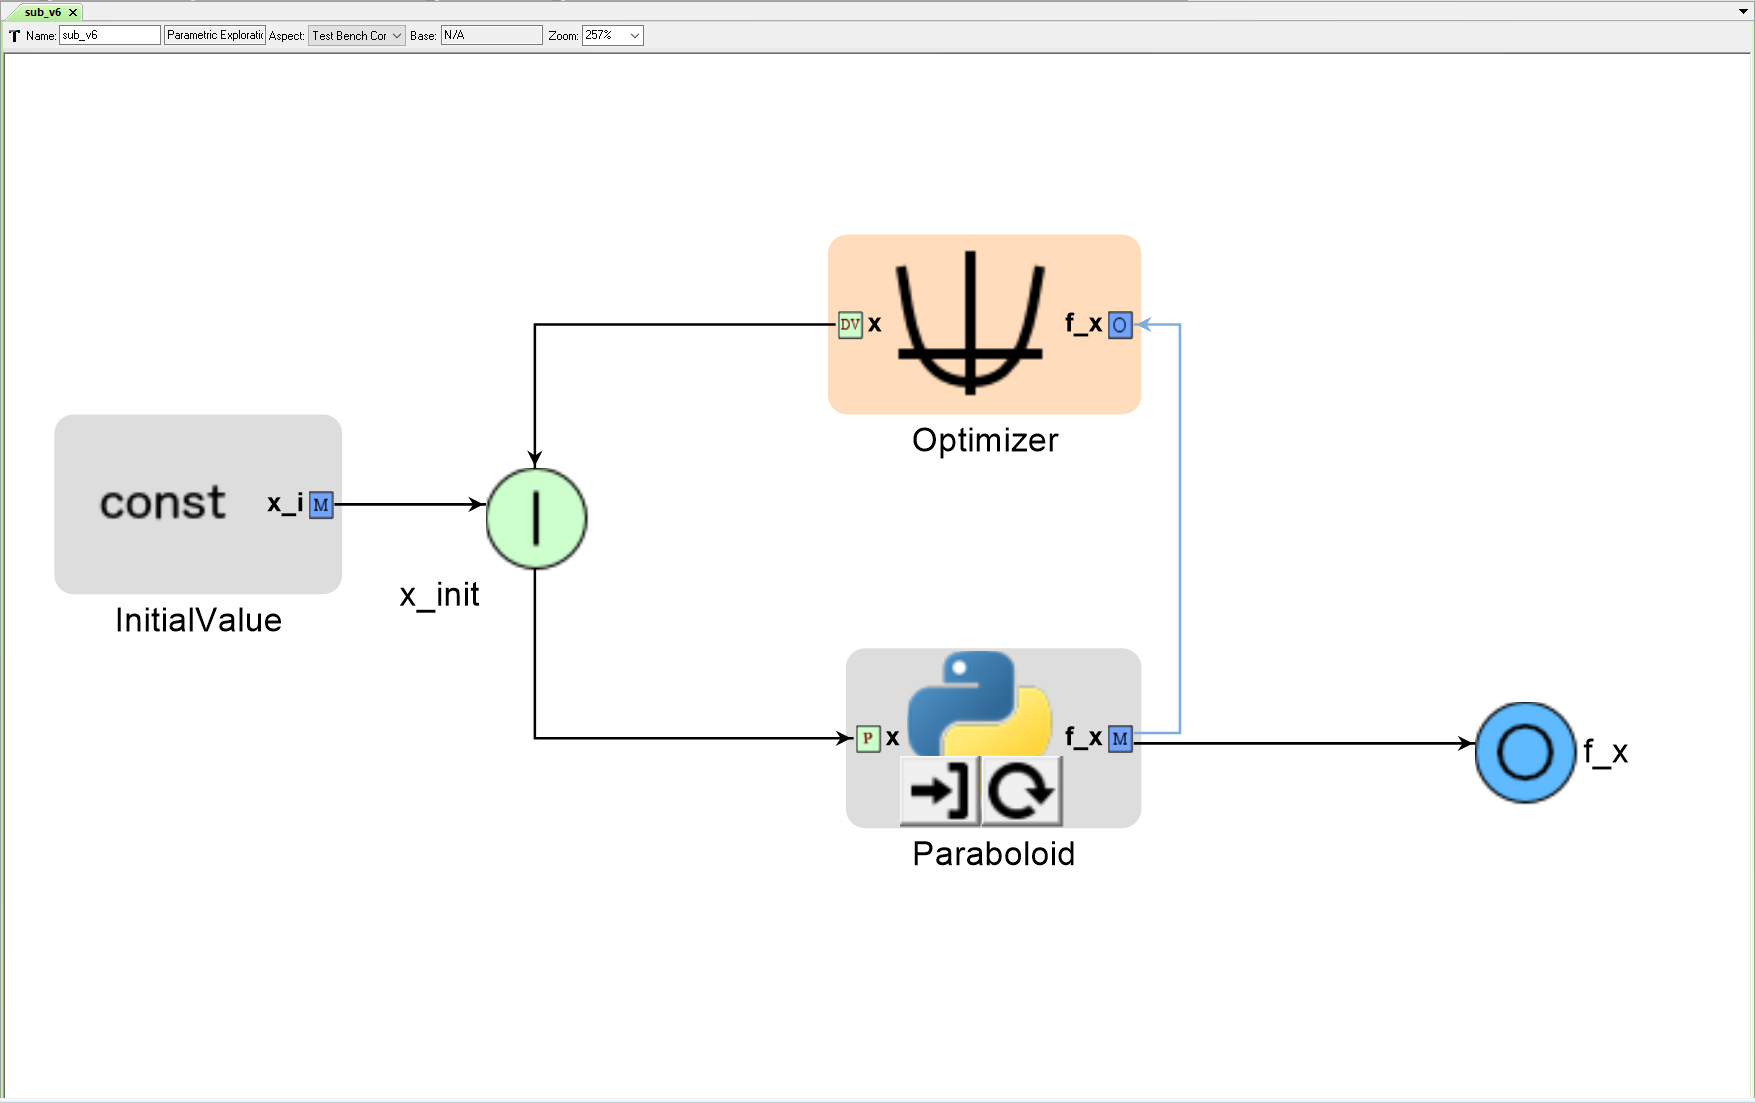
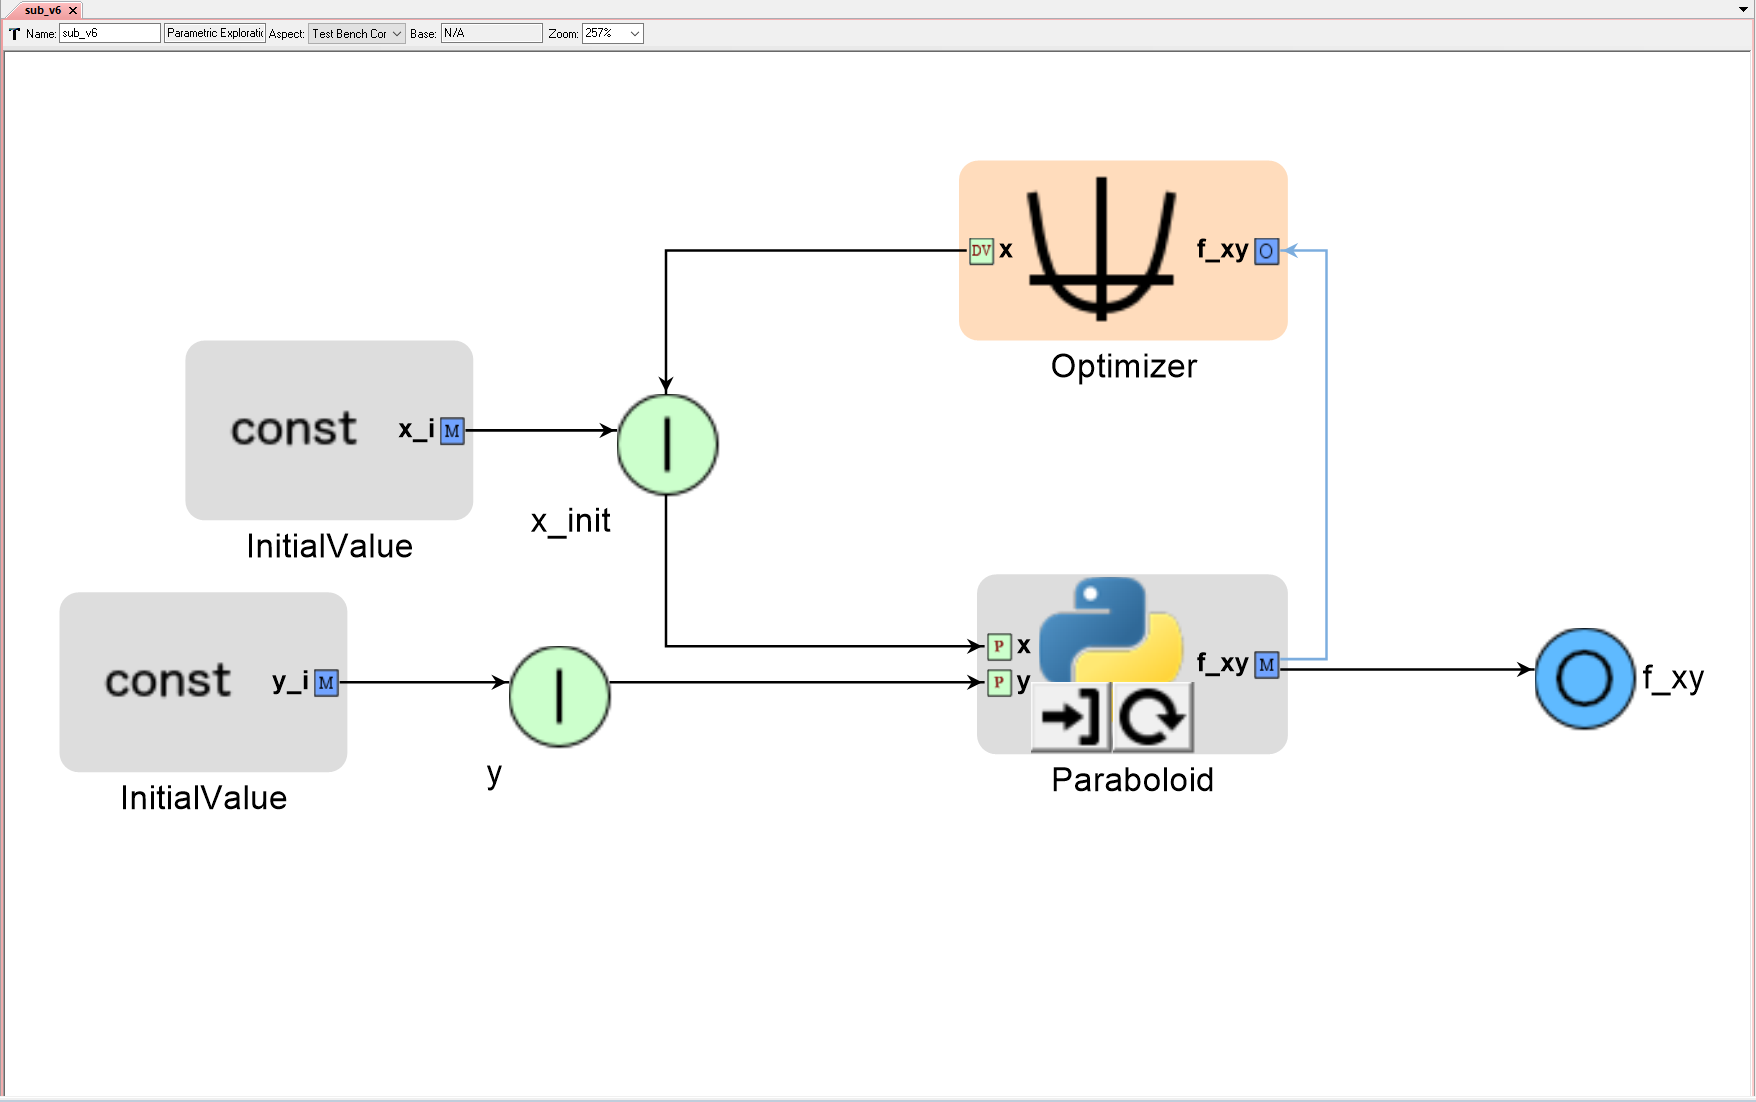
added another example

diff --git a/PETBuildupConstants/top_v3.py b/PETBuildupConstants/top_v3.py
@@ -1,0 +1,128 @@
+'''
+# Name: top_v3.py
+# Company: MetaMorph, Inc.
+# Author(s): Joseph Coombe
+# Email: jcoombe@metamorphsoftware.com
+# Create Date: 7/13/2017
+# Edit Date: 7/13/2017
+
+# Tutorial: Problem containing a Parameter Study and a SubProblem
+#           Adaption of OpenMDAO tutorial: http://openmdao.readthedocs.io/en/1.7.3/usr-guide/tutorials/paraboloid-tutorial.html
+
+# Inputs:
+
+# Outputs:
+'''
+
+from __future__ import print_function
+from openmdao.api import IndepVarComp, Component, Problem, Group
+from openmdao.api import ScipyOptimizer  # Optimizer driver
+from openmdao.api import SqliteRecorder  # Recorder
+from openmdao.api import SubProblem  # Allows for nested drivers - not currently supported in OpenMETA - Introduced in OpenMDAO v.1.7.2.
+from openmdao.api import FullFactorialDriver  # FullFactorialDriver driver
+import sqlitedict
+from pprint import pprint
+
+# PythonWrapper Components
+class Paraboloid(Component):
+    ''' Evaluates the equation f(x,y) = (x-3)^2 +xy +(y+4)^2 - 3 '''
+
+    def __init__(self):
+        super(Paraboloid, self).__init__()
+        
+        self.add_param('x', val=0.0)
+        self.add_param('y', val=0.0)
+        
+        self.add_output('f_xy', shape=1)
+        
+    def solve_nonlinear(self, params, unknowns, resids):
+        ''' f(x,y) = (x-3)^2 + xy + (y+4)^2 - 3 '''
+        
+        x = params['x']
+        y = params['y']
+        
+        unknowns['f_xy'] = (x-3.0)**2 + x*y + (y+4.0)**2 - 3.0
+
+        
+if __name__ == '__main__':
+
+    # Instantiate a Problem 'sub'
+    # Instantiate a Group and add it to sub
+    sub = Problem()
+    sub.root = Group()
+    
+    # Add the 'Paraboloid' Component to sub's root Group.
+    sub.root.add('Paraboloid', Paraboloid())
+    
+    # Add an IndepVarComp c1.y_const for 'Constants->y_const' to sub's root Group.
+    sub.root.add('c1', IndepVarComp('y_const', 10.0))  # normal Constants behavior
+    
+    # Initialize x_init as a IndepVarComp and add it to sub's root group as 'p1.x_init'
+    # p1.x_init is initialized to 2.0 because in OpenMETA, the metric 'x_i' (inside the Constants 'InitialValue') was connected to 'x_init'
+    sub.root.add('p1', IndepVarComp('x_init', 2.0))  
+    
+    # Connect components
+    sub.root.connect('p1.x_init', 'Paraboloid.x')
+    sub.root.connect('c1.y_const', 'Paraboloid.y')
+    
+    # Add driver
+    sub.driver = ScipyOptimizer()
+    
+    # Modify the optimization driver's settings
+    sub.driver.options['optimizer'] = 'COBYLA'      # Type of Optimizer. 'COBYLA' does not require derivatives
+    sub.driver.options['tol'] = 1.0e-4              # Tolerance for termination. Not sure exactly what it represents. Default: 1.0e-6
+    sub.driver.options['maxiter'] = 200             # Maximum iterations. Default: 200
+    #sub.driver.opt_settings['rhobeg'] = 1.0        # COBYLA-specific setting. Initial step size. Default: 1.0
+    #sub.driver.opt_settings['catol'] = 0.1         # COBYLA-specific setting. Absolute tolerance for constraint violations. Default: 0.1
+    
+    # Add design variables, objective, and constraints to the optimization driver
+    sub.driver.add_desvar('p1.x_init', lower=-50, upper=50)
+    sub.driver.add_objective('Paraboloid.f_xy')
+    
+    
+    # Instantiate a Problem 'top'
+    # Instantiate a Group and add it to top
+    top = Problem()
+    top.root = Group()
+    
+    # Add sub to top as a SubProblem called 'Sub' 
+    # Include sub's Problem Inputs and Problem Outputs in 'params' and 'unknowns' fields of SubProblem 
+    top.root.add('Sub', SubProblem(sub, params=['p1.x_init'],
+                                        unknowns=['Paraboloid.f_xy']))  # This is where you designate what to expose to the outside world)
+
+    # Initialize x and y as IndepVarComps and add them to top's root group
+    top.root.add('p1', IndepVarComp('x_init', 0.0))
+    
+    # Add an IndepVarComp c1.x_init for 'Constants->x_init' to top's root Group.
+    top.root.add('c1', IndepVarComp('x_init', 30.0))  # normal Constants behavior
+    
+    # Connections
+    top.root.connect('c1.x_init', 'Sub.p1.x_init')
+    
+    # Add driver
+    top.driver = FullFactorialDriver(num_levels=11)
+        
+    # Add design variables and objectives to the parameter study driver
+    top.driver.add_objective('Sub.Paraboloid.f_xy')
+    
+    
+    # Data collection
+    recorder = SqliteRecorder('record_results')
+    recorder.options['record_params'] = True
+    recorder.options['record_metadata'] = True
+    top.driver.add_recorder(recorder)
+    
+    # Setup, run, & cleanup
+    top.setup(check=False)
+    top.run()
+    top.cleanup()
+    
+    # Data retrieval & display
+    # Old way - good for debugging IndepVars
+    db = sqlitedict.SqliteDict( 'record_results', 'iterations' )
+    db_keys = list( db.keys() ) # list() needed for compatibility with Python 3. Not needed for Python 2
+    for i in db_keys:
+        data = db[i]
+        print('\n')
+        print(data['Unknowns'])
+        print(data['Parameters'])
